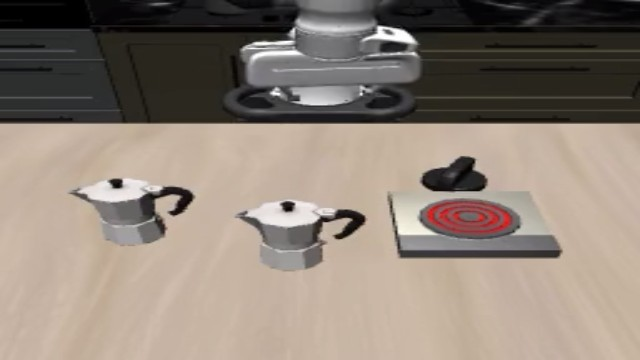
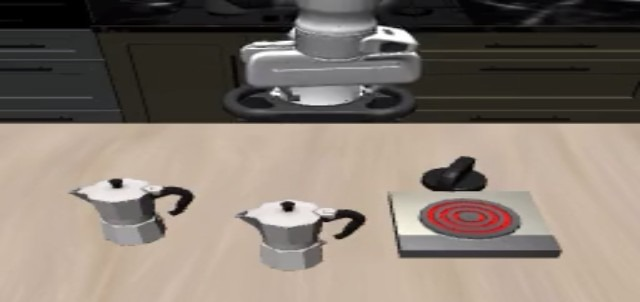
Add JWST project page link; fix VLA/sensor/point-cloud thumbnails

diff --git a/_projects/jwst_swin_mirror_alignment.md b/_projects/jwst_swin_mirror_alignment.md
@@ -1,0 +1,139 @@
+---
+layout: page
+title: Detecting JWST Mirror Misalignment
+description: "A <strong>two-head Swin Transformer</strong> reads a single James Webb point-spread function and says <strong>which</strong> of the 18 mirror segments drifted and by <strong>how much</strong> — <strong>F1 = 1.0</strong> on localization and <strong>0.14–10.1%</strong> error on piston/tip/tilt."
+img: assets/img/proj_jwst_thumb.jpg
+importance: 3
+category: research
+---
+
+<div class="text-center mb-4">
+  <a
+    href="https://github.gatech.edu/pages/jcorbin33/CS7641_S26/"
+    target="_blank"
+    rel="noopener noreferrer"
+    style="display: inline-block; padding: 8px 18px; border: 2px solid var(--global-theme-color); border-radius: 8px; color: var(--global-theme-color); font-weight: bold; text-decoration: none;"
+  >
+    <i class="fa-solid fa-arrow-up-right-from-square"></i> View the full project page &amp; report
+  </a>
+</div>
+
+<div class="row mb-4">
+  <div class="col-sm-12">
+    <div class="card p-0 overflow-hidden">
+      <img src="{{ 'assets/img/jwst_psf_comparison.png' | relative_url }}" alt="Aligned vs. misaligned JWST point-spread functions from the STPSF simulator" style="width:100%; display:block;">
+    </div>
+    <p style="color: var(--global-theme-color); font-weight: bold; margin-top: 6px;">Simulated JWST point-spread functions (STPSF): an aligned mirror (left) vs. a misaligned configuration (right). The model learns to read these subtle differences.</p>
+  </div>
+</div>
+
+---
+
+## Key Numbers
+
+<div class="row mt-3 mb-3">
+  <div class="col-sm-4 text-center">
+    <div class="card p-3" style="border-left: 4px solid var(--global-theme-color);">
+      <h2 style="color: var(--global-theme-color); font-size: 2.5rem; margin: 0;">1.0</h2>
+      <p class="mb-0"><strong>F1 score localizing the misaligned segment (18-class)</strong></p>
+    </div>
+  </div>
+  <div class="col-sm-4 text-center">
+    <div class="card p-3" style="border-left: 4px solid var(--global-theme-color);">
+      <h2 style="color: var(--global-theme-color); font-size: 2.5rem; margin: 0;">0.14–10.1%</h2>
+      <p class="mb-0"><strong>Relative error on piston / tip / tilt magnitude</strong></p>
+    </div>
+  </div>
+  <div class="col-sm-4 text-center">
+    <div class="card p-3" style="border-left: 4px solid var(--global-theme-color);">
+      <h2 style="color: var(--global-theme-color); font-size: 2.5rem; margin: 0;">10k</h2>
+      <p class="mb-0"><strong>Simulated PSFs generated for training</strong></p>
+    </div>
+  </div>
+</div>
+
+---
+
+## The Problem
+
+The James Webb Space Telescope earns its resolution from the precise co-alignment of **18 hexagonal primary-mirror segments**. Operating between −239 and 87 °C, thermal microdeformations nudge those segments out of place, and even nanometer-scale **piston** (translation) or **tip/tilt** (rotation) errors smear the telescope's point-spread function (PSF) and degrade every observation. Today, catching this relies on dedicated wavefront sensors and expensive phase-retrieval algorithms.
+
+**The question:** given just a PSF image, can a model say _which_ segment is misaligned and _by how much_ — fast enough to serve as an independent, low-latency health check between scheduled maintenance?
+
+---
+
+## My Role
+
+This was a 3-person CS 7641 (Machine Learning) project. I owned the **data-generation pipeline** and the **supervised model** — the two-head Swin Transformer described below. (Teammates led the unsupervised clustering track, summarized at the end as context.)
+
+---
+
+## Data: 10,000 Simulated PSFs
+
+There is no large labeled corpus of misaligned-JWST images, so I built one. Using the **STPSF** NIRCam simulator (filter F200W, 2× oversampling, 1.5″ field of view), I generated **10,000 PSFs** with ground-truth defect labels, spanning:
+
+- **Defect types:** piston and tip/tilt, equally represented across all **18 segments**
+- **Three difficulty tiers** calibrated to real JWST behavior — _subtle_ (≈48 h of drift: piston 5–15 nm, tip/tilt 0.01–0.03 µrad), _medium_ (maintenance-triggering drift), and _easy_ (large historical drift events)
+- **Log-normalized intensities:** pixels clipped at 1e-10, log₁₀-transformed, then z-scored — taming the PSF's enormous dynamic range
+
+---
+
+## The Model: Two-Head Swin Transformer
+
+A pretrained **Swin-T** backbone (~28.3 M parameters, ImageNet-initialized) extracts a shared 768-dimensional feature from each PSF through four hierarchical stages of windowed self-attention (56² → 28² → 14² → 7²). Two lightweight heads then branch off that shared feature:
+
+- **Segment head** — 18-class classification: _which_ mirror panel is misaligned
+- **DOF head** — 3-D regression: _how much_, along piston (nm), tip (µrad), and tilt (µrad)
+
+The heads train jointly under a weighted loss `L = 0.1·L_seg + L_DOF`, where `L_seg` is cross-entropy and `L_DOF` is a Huber (smooth-L1) loss on per-axis standardized targets — the low segment weight reflecting that magnitude regression is the harder, higher-priority task. Optimization uses AdamW with **differential learning rates** (backbone 5e-5, heads 5e-4), weight decay 0.05, and cosine annealing with plateau-based reduction over 200 epochs.
+
+---
+
+## Results
+
+<div class="row mb-4">
+  <div class="col-sm-12">
+    <div class="card p-0 overflow-hidden">
+      <img src="{{ 'assets/img/jwst_validation_curves.png' | relative_url }}" alt="Validation RMSE curves for piston, tip, and tilt over 200 epochs" style="width:100%; display:block;">
+    </div>
+    <p style="color: var(--global-theme-color); font-weight: bold; margin-top: 6px;">Validation convergence for the piston, tip, and tilt regression heads over 200 epochs — stable training across all three degrees of freedom.</p>
+  </div>
+</div>
+
+- **Perfect localization:** the segment head hit an **F1 score of 1.0** across all defect types — the learned representation cleanly identifies the misaligned panel.
+- **Low-error magnitude estimation:** relative error ranged from **0.14% to 10.1%** of the defect span depending on severity. Piston was easiest (most global PSF effect); tip/tilt hardest at subtle magnitudes.
+
+| Defect | RMSE         | Subtle | Medium | Easy  |
+| ------ | ------------ | ------ | ------ | ----- |
+| Piston | 1.135 nm     | 5.2%   | 2.2%   | 0.14% |
+| Tip    | 0.00235 µrad | 5.5%   | 2.2%   | 0.15% |
+| Tilt   | 0.00435 µrad | 10.1%  | 4.0%   | 0.28% |
+
+_(% = RMSE as a fraction of each tier's magnitude span.)_
+
+One honest wrinkle: the model showed **asymmetric tip-vs-tilt error** despite the physically symmetric PSFs — most likely the ImageNet-pretrained attention patterns steering fine-tuning into a biased local minimum. Training from random initialization is the natural next experiment.
+
+---
+
+## Context: Why Supervision Was Necessary
+
+The unsupervised track (teammates' work) tried to recover segment identity _without_ labels — an autoencoder → PCA → K-means (k = 18) pipeline. It reconstructed PSFs accurately but its clusters never lined up with mirror panels (Adjusted Rand Index ≈ 0).
+
+<div class="row mb-4">
+  <div class="col-sm-12">
+    <div class="card p-0 overflow-hidden">
+      <img src="{{ 'assets/img/jwst_tsne_kmeans.png' | relative_url }}" alt="t-SNE of autoencoder embeddings with K-means Voronoi cells; clusters do not align with mirror-panel labels" style="width:100%; display:block;">
+    </div>
+    <p style="color: var(--global-theme-color); font-weight: bold; margin-top: 6px;">t-SNE of the autoencoder embeddings (Voronoi cells = K-means clusters, colors = true panel). Clusters mix panels freely — reconstruction features don't encode defect identity.</p>
+  </div>
+</div>
+
+The takeaway: reconstruction-quality features are not the same as defect-discriminative features. **Explicit supervision** is what aligns the representation with the physics we actually care about — which is exactly what the two-head Swin model delivers.
+
+---
+
+## Tools
+
+`PyTorch` · `Swin Transformer` · `STPSF (JWST PSF simulator)` · `Multi-Task Learning` · `Transfer Learning` · `scikit-learn (PCA, K-means, t-SNE)` · `NumPy`
+
+_CS 7641: Machine Learning — Georgia Tech, Spring 2026 (3-person project). My focus: the data-generation pipeline and the supervised two-head Swin Transformer (localization + magnitude regression)._

diff --git a/CUSTOMIZE.md b/CUSTOMIZE.md
@@ -62,7 +62,7 @@ Here we will give you some tips on how to customize the website. One important t
     - [How it works](#how-it-works)
     - [Configuration](#configuration-1)
     - [Disable related posts for a specific post](#disable-related-posts-for-a-specific-post)
-    - [Additional configuration in _config.yml](#additional-configuration-in-_configyml)
+    - [Additional configuration in \_config.yml](#additional-configuration-in-_configyml)
   - [Managing publication display](#managing-publication-display)
   - [Adding a Google Calendar](#adding-a-google-calendar)
     - [Basic usage](#basic-usage)

diff --git a/_projects/multi_sensor_ded.md b/_projects/multi_sensor_ded.md
@@ -3,7 +3,7 @@ layout: page
 title: Multi-Modal Powder-Flow Sensors
 description: "Three novel <strong>in-line sensors</strong> (piezoelectric, optical, triboelectric) benchmarked against an ultrasonic baseline for metal-3D-printing powder flow — all hit <strong>R² > 0.9</strong> at a <strong>90× lower data rate</strong>, then fused with a <strong>Kalman filter</strong>."
 img: assets/img/proj_multisensor_thumb.jpg
-importance: 5
+importance: 6
 category: research
 ---
 

diff --git a/_projects/mrac_powder_flow_control.md b/_projects/mrac_powder_flow_control.md
@@ -4,7 +4,7 @@ title: Lyapunov-Based MRAC for Powder Flow
 description: A <strong>Lyapunov-based MRAC</strong> controller that adapts to changing feeder dynamics and cancels periodic powder-flow surging — deployed on an <strong>FPGA</strong> with real stainless-steel powder.
 img: assets/img/proj_mrac.jpg
 hover_video: assets/video/mrac_control_preview.mp4
-importance: 4
+importance: 5
 category: research
 ---
 

diff --git a/_projects/lidar_point_cloud_registration.md b/_projects/lidar_point_cloud_registration.md
@@ -3,7 +3,7 @@ layout: page
 title: Automated 3D Point Cloud Registration
 description: An automated pipeline that precisely aligns multi-view <strong>LiDAR</strong> point clouds with no manual intervention — <strong>FPFH features</strong> → <strong>RANSAC</strong> → <strong>ICP</strong> refinement.
 img: assets/img/proj_pointcloud.jpg
-importance: 6
+importance: 7
 category: research
 ---
 

diff --git a/_projects/deformable_convolution_nde.md b/_projects/deformable_convolution_nde.md
@@ -4,7 +4,7 @@ title: Deformable Kernels for Curved-Surface NDE
 description: "<strong>Deformable convolution</strong> that bends to follow curved surfaces — maps material thickness across a full part instead of point by point."
 img: assets/img/proj_deformable.jpg
 hover_video: assets/video/deformable_nde_preview.mp4
-importance: 3
+importance: 4
 category: research
 ---
 

diff --git a/_projects/community_stem_outreach.md b/_projects/community_stem_outreach.md
@@ -3,7 +3,7 @@ layout: page
 title: Community STEM Outreach
 description: STEM enrichment for underserved K-12 students in Atlanta.
 img: assets/img/11.jpg
-importance: 7
+importance: 8
 category: service
 ---
 
